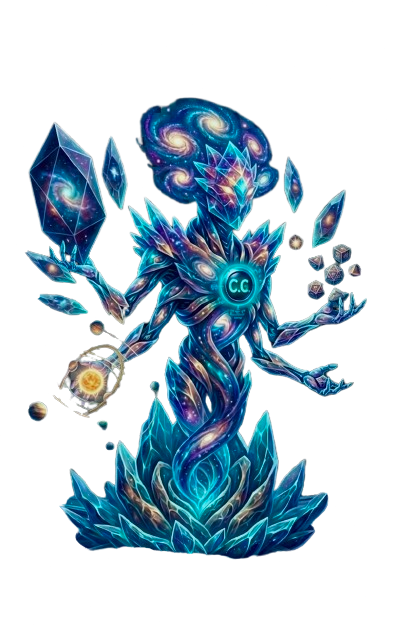
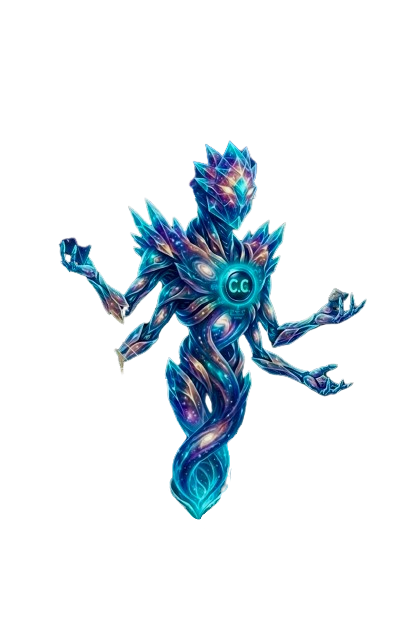
cosmic-upgrade3

diff --git a/app/components/CosmicPortal.tsx b/app/components/CosmicPortal.tsx
@@ -72,7 +72,7 @@ const PERSONAJES = [
   { id: 'char_2', name: 'Celestial Hacker', class: 'Captain369',       cardImg: '/cosmic-universe/cards/capitan369.png',      assetImg: '/cosmic-universe/assets/captain369.png',    stats: [{ label: 'PROCESAMIENTO', val: 60 }, { label: 'SIGILO', val: 95 }, { label: 'ESTABILIDAD', val: 50 }] },
   { id: 'char_3', name: 'Galactic Warrior', class: 'Code Samurai',     cardImg: '/cosmic-universe/cards/pirate66.PNG',        assetImg: '/cosmic-universe/assets/space_pirate9.png', stats: [{ label: 'PROCESAMIENTO', val: 75 }, { label: 'SIGILO', val: 30 }, { label: 'ESTABILIDAD', val: 98 }] },
   { id: 'char_4', name: 'Chrono Hacker',    class: 'Time Manipulator', cardImg: '/cosmic-universe/cards/guardian33.PNG',      assetImg: '/cosmic-universe/assets/guardian3.png',    stats: [{ label: 'PROCESAMIENTO', val: 88 }, { label: 'SIGILO', val: 70 }, { label: 'ESTABILIDAD', val: 65 }] },
-  { id: 'char_5', name: 'Aether Blade',     class: 'Energy Vanguard',  cardImg: '/cosmic-universe/cards/guardian99.PNG',      assetImg: '/cosmic-universe/assets/guardian9.PNG',    stats: [{ label: 'PROCESAMIENTO', val: 80 }, { label: 'SIGILO', val: 85 }, { label: 'ESTABILIDAD', val: 70 }] },
+  { id: 'char_5', name: 'Aether Blade',     class: 'Energy Vanguard',  cardImg: '/cosmic-universe/cards/guardian99.PNG',      assetImg: '/cosmic-universe/assets/guardian9.png',    stats: [{ label: 'PROCESAMIENTO', val: 80 }, { label: 'SIGILO', val: 85 }, { label: 'ESTABILIDAD', val: 70 }] },
   { id: 'char_6', name: 'Cosmic Oracle',    class: 'Data Seer',        cardImg: '/cosmic-universe/cards/guardian66.PNG',      assetImg: '/cosmic-universe/assets/guardian6.png',    stats: [{ label: 'PROCESAMIENTO', val: 99 }, { label: 'SIGILO', val: 50 }, { label: 'ESTABILIDAD', val: 60 }] },
 ];
 